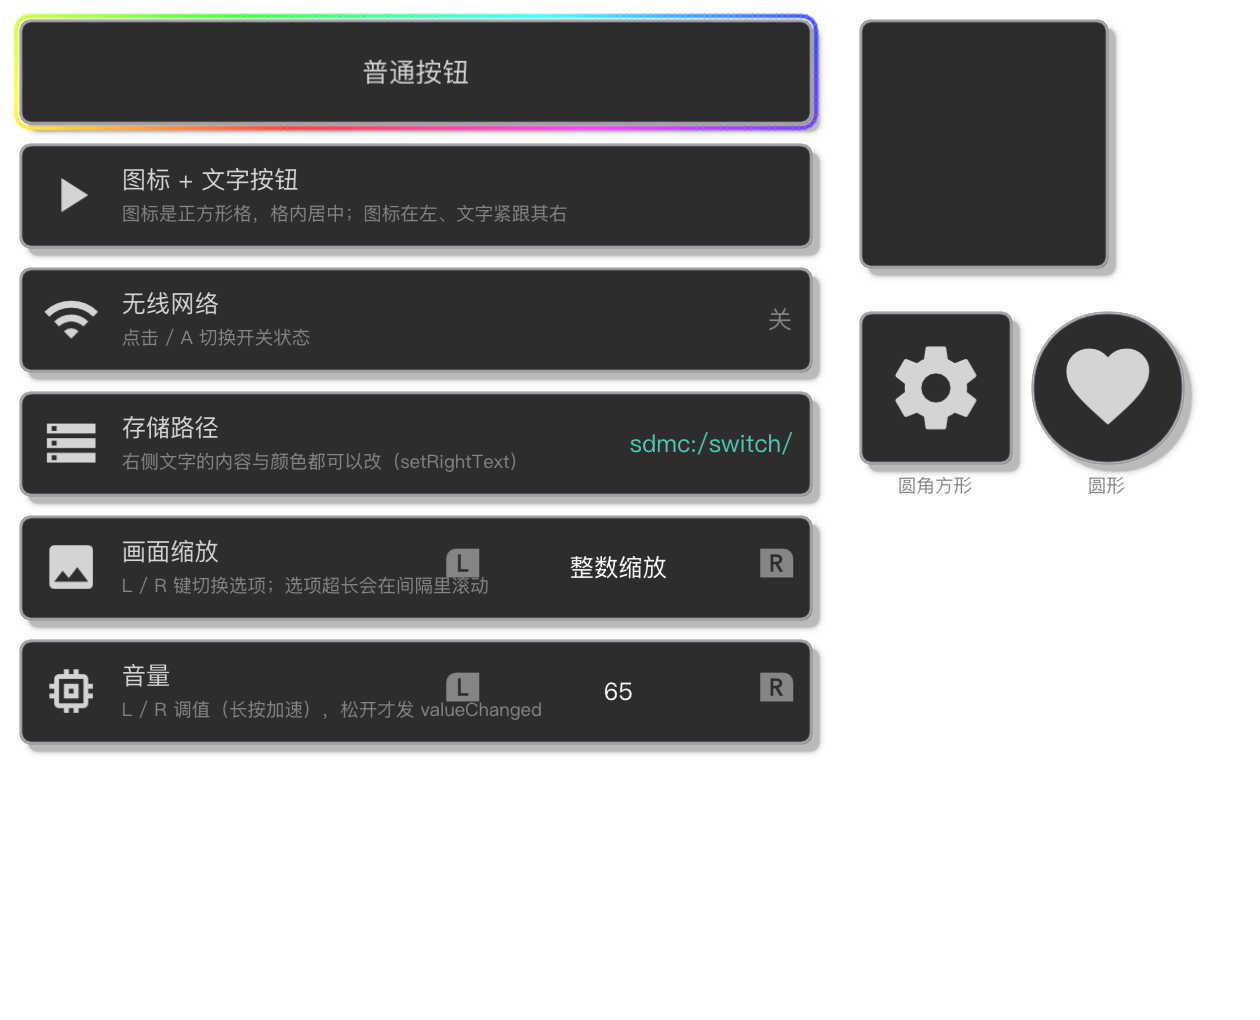
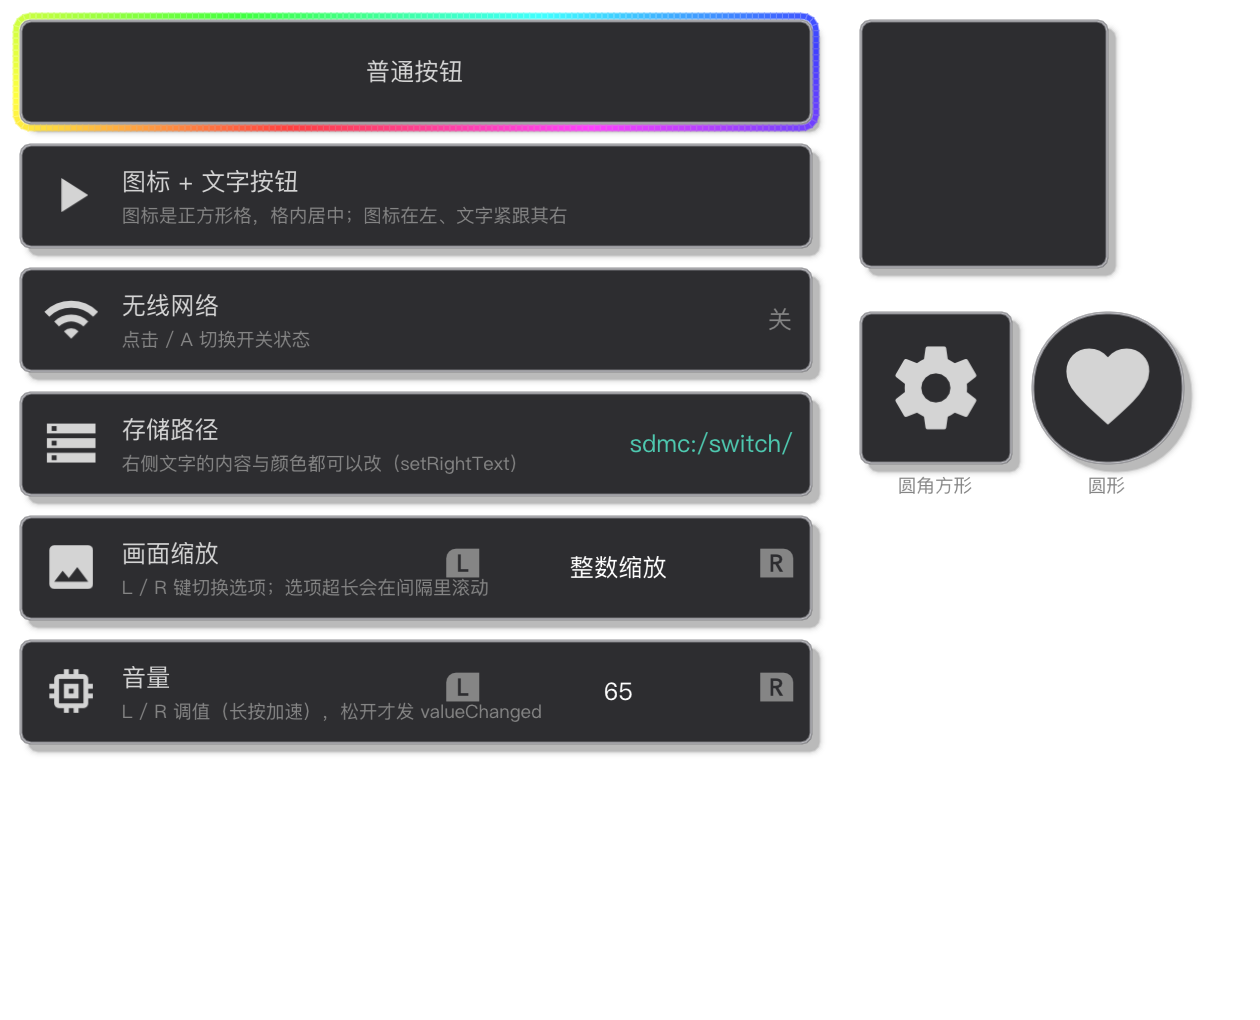
去掉聚焦缩放；流光框加粗到 3px；修掉关掉说明行后主文字不回正中的 bug
1. 聚焦不再缩放：删掉 ContentScale()/MainSize()/SubSize()，图标和文字回到原尺寸，
   聚焦视觉只由流光框表达。
2. Global::component_style.focus_width 2px → 3px（流光框整体加宽 1px）。
3. 说明行开关后主文字重新居中：原来文字块的位置按"图标格高度"算
   （block_y = center - block_h/2，而图标格高 = 内容区高度），所以关掉说明行后
   主文字停在偏上约 8px 的位置；现在按文字块自己的高度相对内容区居中。

验证（抓帧逐项量）：
- 聚焦/未聚焦的墨迹完全一致：数值 65 都是 13.0×9.0，图标都是 21.5×21.5；
- 顶部流光框彩带（物理行）从 5 行变 8 行，含 AA，对应 3px 线宽；
- 说明行关：无线网络主文字墨迹中心 169.5 / 存储路径 231.5 vs 按钮中心 170 / 232；
  普通按钮（无说明行）主文字墨迹中心 y=45.5、x=217 vs 按钮中心 (46, 218)。
mac Debug/Release + Switch 均编译通过；ctest 全绿；6 个 demo 退出码 0；快照已更新。

diff --git a/component_view/components/Button.cpp b/component_view/components/Button.cpp
@@ -160,16 +160,11 @@ bool Button::CaptionOutside() const {
     return false;
 }
 
-float Button::ContentScale() const {
-    // 聚焦就是 1.1 倍，不做过渡动画
-    return focused ? 1.1f : 1.0f;
-}
-
 Button::LeftBlock Button::computeLeftBlock(const Rect& content) const {
     LeftBlock block;
     const bool show_sub = SubtitleVisible();
-    const float main_size = MainSize();
-    const float sub_size = SubSize();
+    const float main_size = mainFontSize();
+    const float sub_size = subFontSize();
     const ImVec2 main_extent = Draw::MeasureText(nullptr, main_size, text.c_str(), 0.0f);
     const ImVec2 sub_extent =
         show_sub ? Draw::MeasureText(nullptr, sub_size, subtitle.c_str(), 0.0f) : ImVec2(0.0f, 0.0f);
@@ -198,25 +193,25 @@ Button::LeftBlock Button::computeLeftBlock(const Rect& content) const {
     const float text_w = Maxf(main_extent.x, sub_extent.x);
     const float text_h = main_extent.y + (show_sub ? sub_extent.y + 2.0f : 0.0f);
     block.width = cell + gap + text_w;
-    const float block_h = Maxf(cell, text_h);
 
-    // 文字块整体垂直居中（有没有说明行都居中）
+    // 文字块（主文字 [+ 说明行]）整体相对内容区垂直居中：
+    // 位置按文字块自己的高度算，而不是按图标格的高度算 —— 否则关掉说明行后主文字会停在偏上的位置。
     const float block_x = (text_align == TextAlign::Center) ? content.Center().x - block.width * 0.5f
                                                             : content.min.x;
-    const float block_y = content.Center().y - block_h * 0.5f;
     block.icon = Rect::FromPosSize(ImVec2(block_x, content.Center().y - cell * 0.5f), ImVec2(cell, cell));
-    block.text = Rect::FromPosSize(ImVec2(block_x + cell + gap, block_y), ImVec2(text_w, text_h));
+    block.text = Rect::FromPosSize(ImVec2(block_x + cell + gap, content.Center().y - text_h * 0.5f),
+                                   ImVec2(text_w, text_h));
     return block;
 }
 
 void Button::drawLeftBlock(ImDrawList* dl, const LeftBlock& block) const {
-    const float main_size = MainSize();
-    const float sub_size = SubSize();
+    const float main_size = mainFontSize();
+    const float sub_size = subFontSize();
     const bool show_sub = SubtitleVisible();
 
     if (!icon.empty() && block.icon.Width() > 0.0f) {
-        // 图标大小跟着格子走（额外 0.86 让四周留白看起来均匀），聚焦时再放大 1.1 倍
-        const float glyph_size = block.icon.Height() * 0.86f * ContentScale();
+        // 图标大小跟着格子走（额外 0.86 让四周留白看起来均匀）
+        const float glyph_size = block.icon.Height() * 0.86f;
         const ImVec2 extent = Draw::MeasureText(nullptr, glyph_size, icon.c_str(), 0.0f);
         // 格内水平居中；垂直按「墨迹」居中：行盒下方有 descender 空白，按行盒居中看起来会偏上
         float y = block.icon.Center().y - extent.y * 0.5f;
@@ -270,8 +265,7 @@ float Button::lrKeysWidth() const {
 }
 
 void Button::drawLrRow(ImDrawList* dl, const Rect& right_rect, const char* content, ImU32 content_color) const {
-    const float size = mainFontSize();       // L/R 图标保持原尺寸，聚焦放大时不会让整行抖动
-    const float content_size = MainSize();   // 间隔里的文字/数字跟着聚焦放大
+    const float size = mainFontSize();
     const ImVec2 left_extent = Draw::MeasureText(nullptr, size, kLeftKeyGlyph, 0.0f);
     const ImVec2 right_extent = Draw::MeasureText(nullptr, size, kRightKeyGlyph, 0.0f);
     const float total = left_extent.x + kLrGap + ResolvedSlotWidth() + kLrGap + right_extent.x;
@@ -281,7 +275,7 @@ void Button::drawLrRow(ImDrawList* dl, const Rect& right_rect, const char* conte
                kLeftKeyGlyph);
     const Rect slot = Rect::FromPosSize(ImVec2(x + left_extent.x + kLrGap, right_rect.min.y),
                                        ImVec2(ResolvedSlotWidth(), right_rect.Height()));
-    Draw::MarqueeText(dl, nullptr, content_size, slot, content_color, content, Global::time,
+    Draw::MarqueeText(dl, nullptr, size, slot, content_color, content, Global::time,
                       Global::component_style.marquee_speed);
     const float right_x = x + left_extent.x + kLrGap + ResolvedSlotWidth() + kLrGap;
     Draw::Text(dl, nullptr, size, ImVec2(right_x, center_y - right_extent.y * 0.5f), Theme::U32(Theme::kTextMuted),
@@ -292,7 +286,7 @@ ImVec2 Button::MeasureContent(const ImVec2& available) {
     (void)available;
     const Button* self = this;
     LeftBlock block = self->computeLeftBlock(Rect::FromPosSize(ImVec2(0.0f, 0.0f), ImVec2(0.0f, Theme::kControlHeight)));
-    const float height = Maxf(Theme::kControlHeight, SubSize() + MainSize() + 8.0f);
+    const float height = Maxf(Theme::kControlHeight, subFontSize() + mainFontSize() + 8.0f);
     const float width = block.width + (rightSideWidth() > 0.0f ? rightSideWidth() + 16.0f : 0.0f);
     return ImVec2(Maxf(width, 120.0f), height);
 }
@@ -414,7 +408,7 @@ void IconButton::drawCaption(ImDrawList* dl) const {
     if (!show_subtitle || subtitle.empty()) {
         return;
     }
-    const float size = SubSize();
+    const float size = subFontSize();
     const ImVec2 extent = Draw::MeasureText(nullptr, size, subtitle.c_str(), 0.0f);
     const Rect limit = CaptionLimit();
     const Rect self = DrawRect();
@@ -463,12 +457,12 @@ ToggleButton& ToggleButton::setChecked(bool value, bool notify) {
 
 float ToggleButton::rightSideWidth() const {
     const char* label = checked ? on_text.c_str() : off_text.c_str();
-    return Draw::MeasureText(nullptr, MainSize(), label, 0.0f).x;
+    return Draw::MeasureText(nullptr, mainFontSize(), label, 0.0f).x;
 }
 
 void ToggleButton::drawRightSide(ImDrawList* dl, const Rect& right_rect) {
     const char* label = checked ? on_text.c_str() : off_text.c_str();
-    const float size = MainSize();
+    const float size = mainFontSize();
     const ImVec2 extent = Draw::MeasureText(nullptr, size, label, 0.0f);
     Draw::Text(dl, nullptr, size,
                ImVec2(right_rect.max.x - extent.x, right_rect.Center().y - extent.y * 0.5f),
@@ -506,11 +500,11 @@ CustomButton& CustomButton::setRightText(std::string value, ImVec4 color) {
 }
 
 float CustomButton::rightSideWidth() const {
-    return Draw::MeasureText(nullptr, MainSize(), right_text.c_str(), 0.0f).x;
+    return Draw::MeasureText(nullptr, mainFontSize(), right_text.c_str(), 0.0f).x;
 }
 
 void CustomButton::drawRightSide(ImDrawList* dl, const Rect& right_rect) {
-    const float size = MainSize();
+    const float size = mainFontSize();
     const ImVec2 extent = Draw::MeasureText(nullptr, size, right_text.c_str(), 0.0f);
     Draw::Text(dl, nullptr, size,
                ImVec2(right_rect.max.x - extent.x, right_rect.Center().y - extent.y * 0.5f), Theme::U32(right_color),

diff --git a/component_view/components/Button.h b/component_view/components/Button.h
@@ -100,10 +100,6 @@ protected:
 
     float mainFontSize() const { return font_size > 0.0f ? font_size : Theme::kFontBody; }
     float subFontSize() const { return subtitle_size > 0.0f ? subtitle_size : Theme::kFontSmall; }
-    // 聚焦时图标和文字（主文字 + 说明行）直接放大 1.1 倍（不做过渡动画）
-    float ContentScale() const;
-    float MainSize() const { return mainFontSize() * ContentScale(); }
-    float SubSize() const { return subFontSize() * ContentScale(); }
     float ResolvedFocusMargin() const;
     float ResolvedFocusWidth() const;
     float ResolvedSlotWidth() const;                  // LR 选择器中间那一格的宽度

diff --git a/component_view/Global.h b/component_view/Global.h
@@ -42,7 +42,7 @@ struct ComponentStyle {
     ImVec4 shadow_color = Theme::rgba(0, 0, 0, 120);
     // 流光聚焦框
     float focus_margin = 2.0f;      // 聚焦框与控件之间的边距
-    float focus_width = 2.0f;       // 聚焦框粗细
+    float focus_width = 3.0f;       // 聚焦框粗细（比原来 2px 再加 1px）
     float focus_flow_speed = 0.28f; // 每秒流动多少圈
     float focus_saturation = 0.75f; // 流光颜色饱和度（0 = 白灰流光）
     float focus_brightness = 1.0f;

diff --git a/README.md b/README.md
@@ -180,7 +180,7 @@ void OnBuild() override {
 | 边框 | 1px 灰白 `rgb(190,190,195)` | `setBorder(width, color)` |
 | 圆角 | 5px | `setCornerRadius(px)` |
 | 阴影 | 右下 `offset(4,4)` / blur 10 / `rgba(0,0,0,120)` | `setShadow(offset, blur, color)` |
-| 聚焦框 | 完整闭合的流光框，与按钮留 **2px** 边距，宽 2px | `setFlowingFocus(bool)` + `focus_margin / focus_width / focus_saturation / focus_brightness / focus_phase_offset` |
+| 聚焦框 | 完整闭合的流光框，与按钮留 **2px** 边距，宽 **3px** | `setFlowingFocus(bool)` + `focus_margin / focus_width / focus_saturation / focus_brightness / focus_phase_offset` |
 | 内容留白 | 8px | `setContentPadding(px)` |
 | 图标格 | 正方形，边长 = 内容区高度（四周留白相同） | `setIconCellSize(px)` |
 | LR 间隔 | 120px 固定宽，内容居中、超长滚动 | `setSlotWidth(px)` |
@@ -199,13 +199,13 @@ void OnBuild() override {
 | 7 | `ValueButton` | `(icon, "文字")` | 图标 + 文字 | `[L] 数值 [R]`：同上；`setup(初值, 最小, 最大, 步长, 小数位)`，L/R 调值，`valueChanged(float)` |
 
 说明行（subtitle）除 `TextButton` 外都支持：`setSubtitle("小字", true)` / `showSubtitle(false)`。
-有主文字时主文字在上、说明行在下，两块整体垂直居中，`text_align` 决定水平位置。开关说明行都不会让文字上下跳。
+有主文字时主文字在上、说明行在下，两块整体垂直居中，`text_align` 决定水平位置。
+**关掉说明行后主文字会重新回到按钮的竖直中线**（文字块按自己的高度居中，不跟着图标格的高度走）。
 
 **图标一律按「墨迹」居中**（`Draw::GlyphInkExtent` 取字形的可见上下边界）：行盒下方带 descender
 空白，按行盒居中图标会看起来偏上；按墨迹居中后图标正落在按钮的竖直中线上。
 
-**聚焦时图标和文字（主文字 + 说明行）直接放大 1.1 倍**，不做过渡动画（`ContentScale()`）。
-LR 选择器里的 L/R 图标保持原尺寸，只有间隔里的文字/数字放大，这样整行不会抖。
+**聚焦不改变尺寸**：图标和文字保持原尺寸，聚焦视觉只由流光框表达（`focus_width` 默认 3px）。
 
 `IconButton` 只有**圆角正方形**和**圆形**两种形态（圆形时圆角 = 边长的一半），宽度等于边长，
 不再是通栏按钮。它的说明行**不在按钮里画，而是画在按钮外面**（`setSubtitle` 的开关照样有效）：
@@ -795,10 +795,15 @@ git -C third_party/imgui fetch --tags     # 升级 imgui 用
 - 已确认（Button 第三轮调整）：① 图标改成按「墨迹」居中（行盒下方有 descender 空白，按行盒居中会偏上）——
   实测 `无线网络` 图标墨迹中心 169.5 vs 按钮中心 170；② `IconButton` 的说明行改到按钮外面：默认下方
   （间距 4px），下方不够就等距放上方（把按钮放到 y=640 时实测说明行在 625.5~636），上下都不够就不显示
-  （`caption_gap=600` 时无任何说明文字）；③ 聚焦时图标和文字（主文字 + 说明行）**直接**放大 1.1 倍、
-  不做过渡动画——实测数值 `65` 的墨迹 13.0→14.5、图标 21.5→23.5，居中不变（cy 355.2→355.8）；
-  聚焦那一帧（`focus_mix` 才 0.121、聚焦框还在动画）内容就已经是 1.100，确认没有过渡。
+  （`caption_gap=600` 时无任何说明文字）；③（当时做过、第四轮已按要求去掉）聚焦放大 1.1 倍。
   快照：`docs/buttons-demo{,-compact}.png`。
+- 已确认（Button 第四轮调整）：① **聚焦不再缩放**（实测把 `65` 与图标的墨迹在聚焦/未聚焦两态逐项比对，
+  完全一致：13.0×9.0 / 21.5×21.5）；② 流光框宽度 2px → **3px**（`Global::component_style.focus_width`，
+  抓帧看到顶部彩带从 5 行（物理）变成 8 行，含 AA）；③ **修掉"关掉说明行后主文字不回到居中"的 bug**：
+  原来文字块的位置按"图标格高度"算（`block_y = center - block_h/2`，图标格 = 内容区高度），
+  关掉说明行后主文字就停在偏上 8px 的位置；现在按文字块自己的高度居中。
+  实测（说明行关）：无线网络主文字墨迹中心 169.5 / 存储路径 231.5 vs 按钮中心 170 / 232；
+  普通按钮（无说明行）主文字墨迹中心 y=45.5、x=217 vs 按钮中心 (46, 218)。
 - 顺带修掉一个框架输入 bug（长按功能的前提）：`PadState::held` 原来是"每帧清零"，SDL 只在按下那一刻
   发一次 KEYDOWN，所以按住不放时 `held` 只有第一帧为真、`Held()` 根本没法用（`Input.h` 注释里
   写的是电平语义）。现在后端把上一帧的按住状态继承下来再叠加本帧事件，`held` 变回真正的电平；
